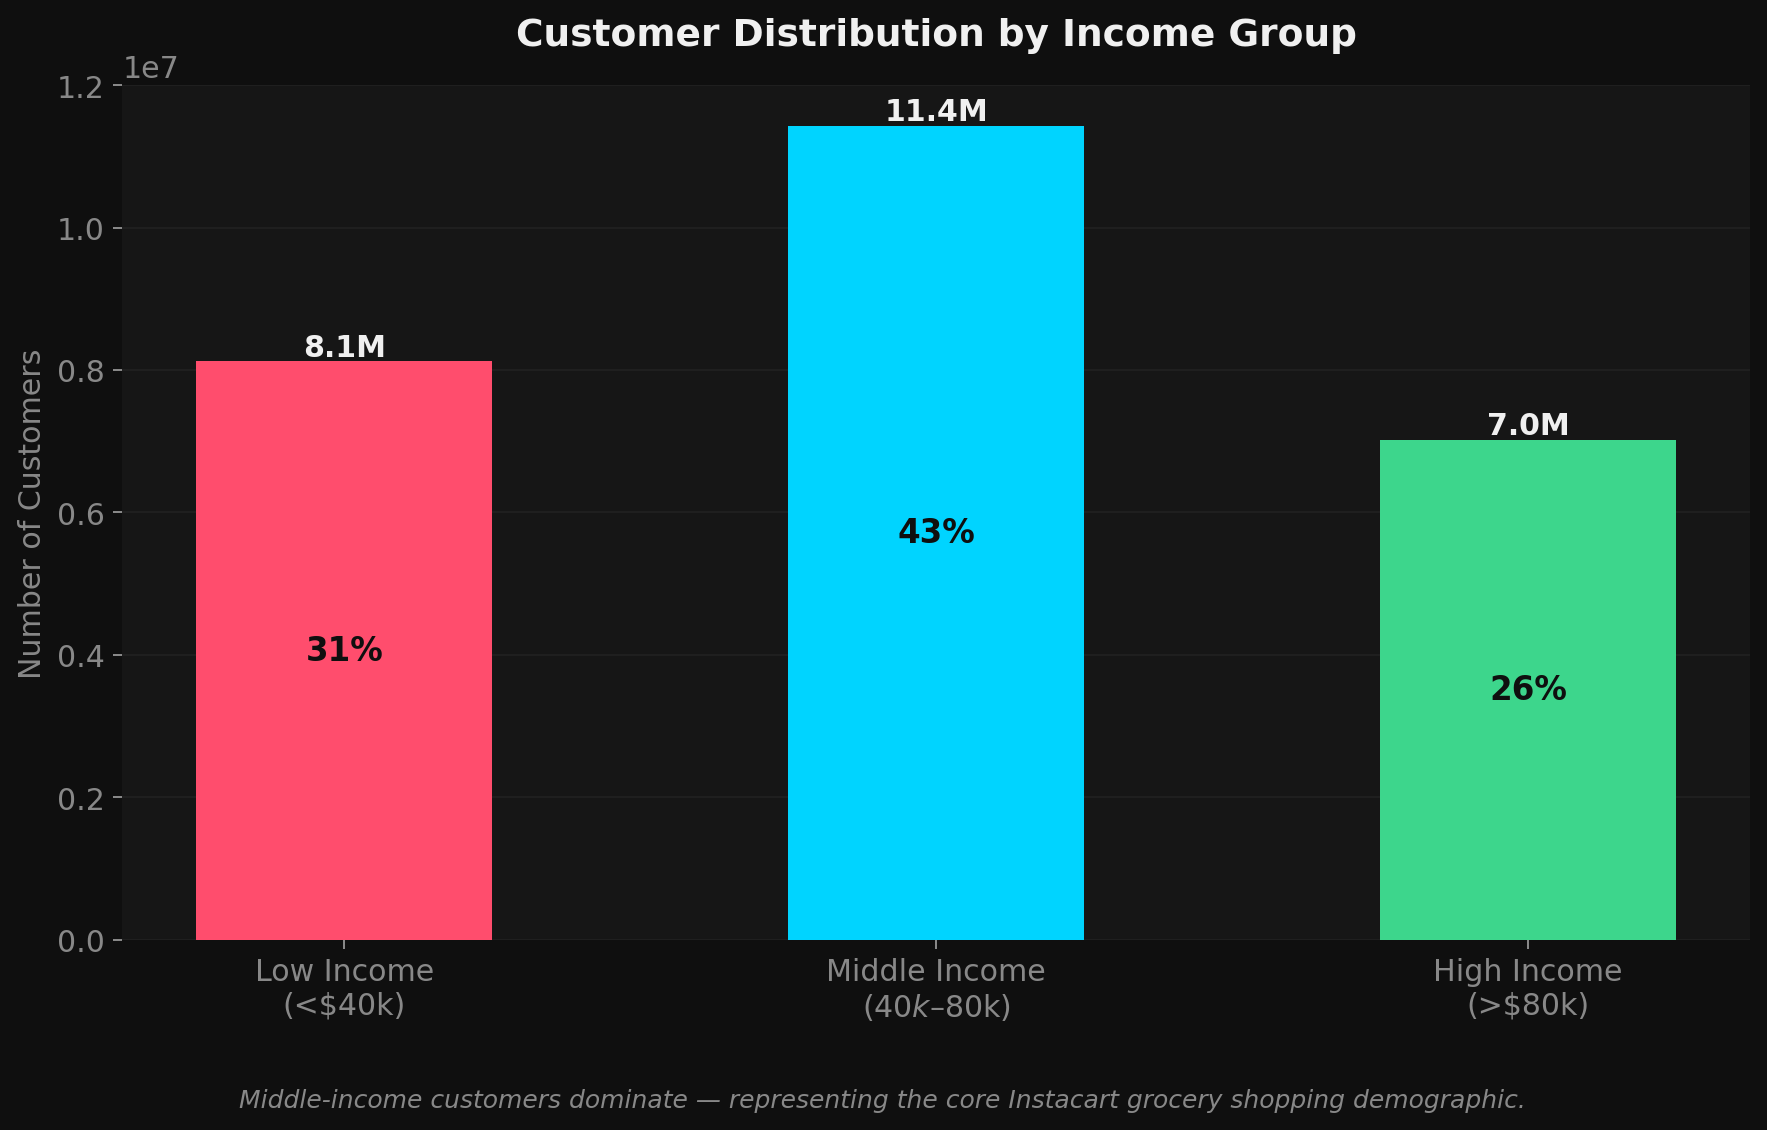
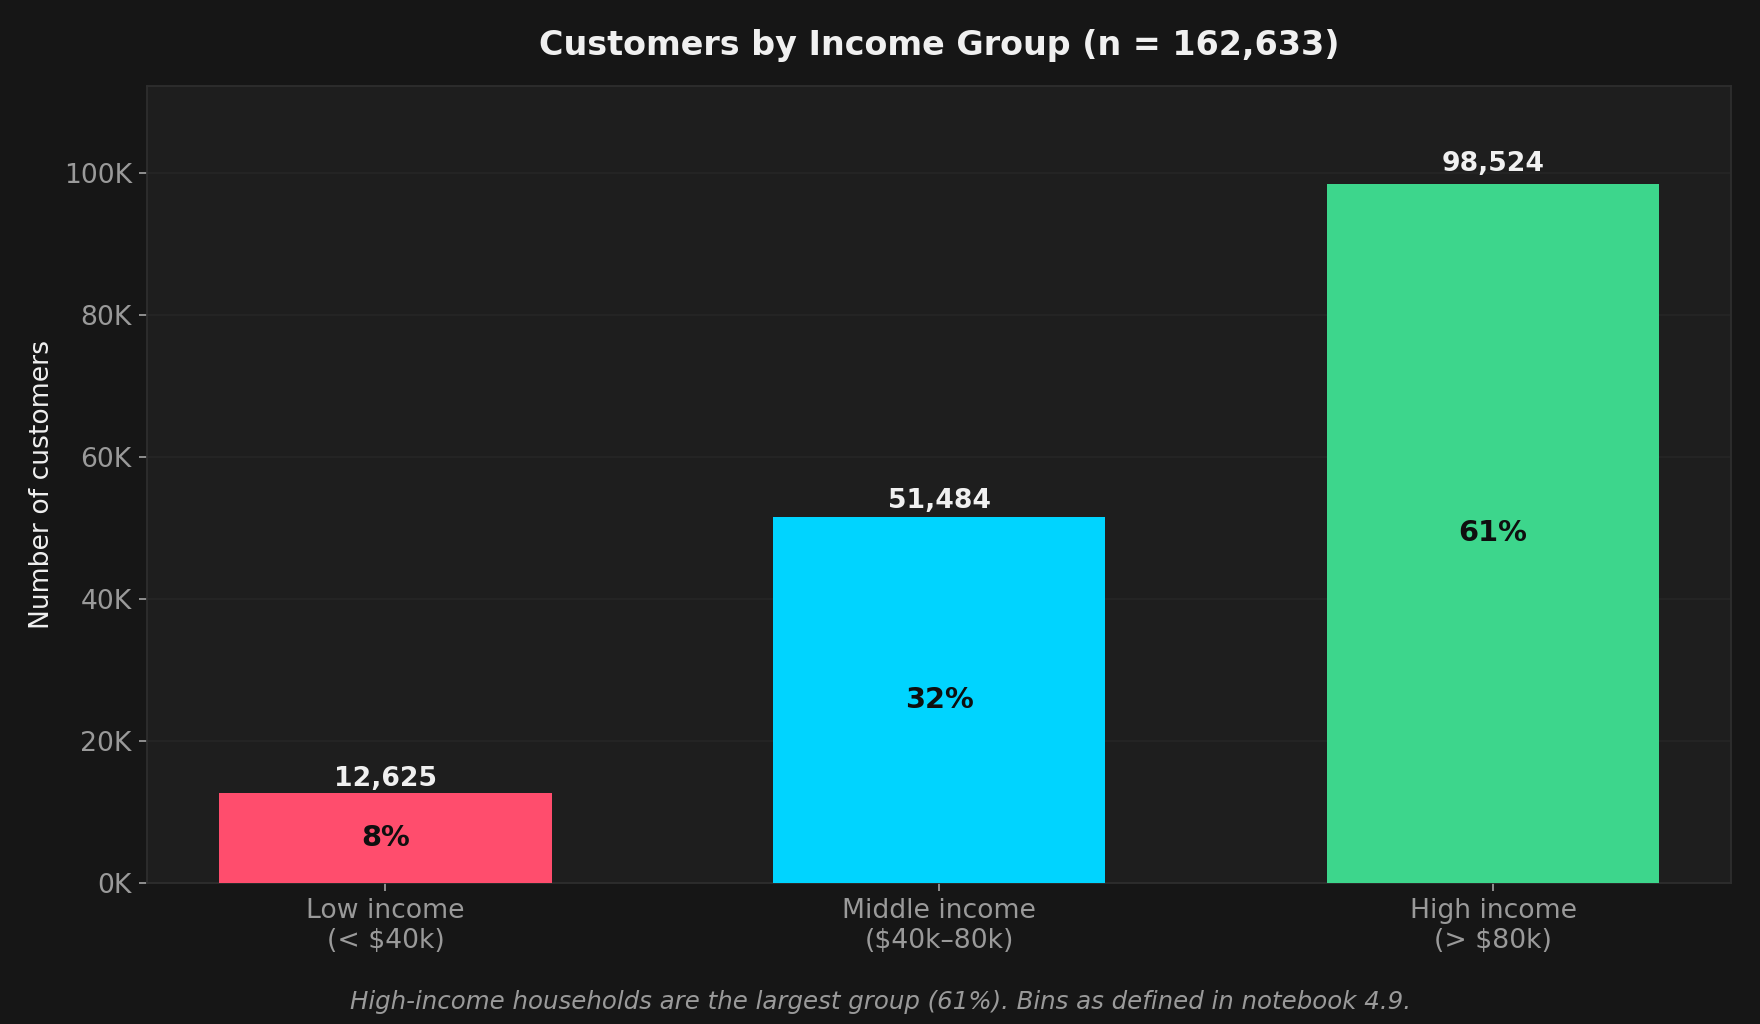
Instacart case study: charts and figures corrected to notebook outputs

diff --git a/instacart-case-study-de.html b/instacart-case-study-de.html
@@ -267,7 +267,7 @@
     <tbody>
       <tr><td><span class="step-tag">1. Import</span></td><td>4.2</td><td>orders.csv + products.csv importieren, profilen und vorschauen</td></tr>
       <tr><td><span class="step-tag">2. Wrangling</span></td><td>4.3</td><td>Spalten umbenennen, Teilmengen erstellen, bereinigte Daten exportieren</td></tr>
-      <tr><td><span class="step-tag">3. Konsistenz</span></td><td>4.4</td><td>Gemischte Typen korrigieren, 260K fehlende Werte behandeln</td></tr>
+      <tr><td><span class="step-tag">3. Konsistenz</span></td><td>4.4</td><td>Gemischte Typen korrigieren, 206.209 fehlende Werte behandeln</td></tr>
       <tr><td><span class="step-tag">4. Merging</span></td><td>4.5</td><td>orders + order_products + products zu einem DataFrame verbinden</td></tr>
       <tr><td><span class="step-tag">5. Abgeleitete Vars</span></td><td>4.6</td><td>price_label, busiest_day, busiest_period_of_day erstellen</td></tr>
       <tr><td><span class="step-tag">6. Gruppierung</span></td><td>4.7</td><td>Loyalitäts-Flag, Ausgaben-Flag, Bestellhäufigkeits-Flag</td></tr>
@@ -280,7 +280,7 @@
   <h2>Datenqualität</h2>
   <div class="insight-box blue">
     <p class="insight-title">Erkenntnis — Fehlende Werte</p>
-    <p>260.290 fehlende Werte in days_since_prior_order sind <strong>erwartet</strong>, nicht fehlerhaft — sie entsprechen ersten Bestellungen ohne vorherige Bestellung. Das Auffüllen mit 0 erhält die semantische Bedeutung.</p>
+    <p>206.209 fehlende Werte in days_since_prior_order sind <strong>erwartet</strong>, nicht fehlerhaft. Die Zahl entspricht exakt der Kundenanzahl (206.209), also ist jeder fehlende Wert die erste Bestellung eines Kunden. Das Auffüllen mit 0 erhält die Bedeutung.</p>
   </div>
 
   <h2>Bestellzeit-Analyse</h2>
@@ -302,17 +302,17 @@
   <h2>Loyalitätssegmentierung</h2>
   <figure class="case-figure">
     <img src="instacart-loyalty.png" alt="Loyalitätsverteilung"/>
-    <figcaption>Abbildung 4. Drei-Stufen-Loyalität (Neu, Regulär, Loyal). Reguläre Kunden sind die größte Gruppe — höchster Hebel für Retention.</figcaption>
+    <figcaption>Abbildung 4. Drei-Stufen-Loyalität nach mittlerer Bestellnummer je Kunde (Neu ≤ 10, Regulär 10–20, Loyal &gt; 20). Neukunden stellen die meisten Bestellzeilen (12,1 Mio., 37 %), Loyal 10,9 Mio. (34 %), Regulär 9,4 Mio. (29 %). Der Median-Artikelpreis liegt in allen drei Gruppen bei 7,4.</figcaption>
   </figure>
 
   <h2>Demografie</h2>
   <figure class="case-figure">
     <img src="instacart-age-group.png" alt="Altersgruppen-Verteilung"/>
-    <figcaption>Abbildung 5. Erwachsene (30–49) dominieren — das Familiensegment ist die Kernzielgruppe der Plattform.</figcaption>
+    <figcaption>Abbildung 5. Erwachsene (30–49) sind die größte Gruppe (50.981 Kunden, 31 %), Senioren (65+) die zweitgrößte (43.250, 27 %). Gezählt werden Kunden mit 5+ Bestellungen.</figcaption>
   </figure>
   <figure class="case-figure">
     <img src="instacart-income-group.png" alt="Einkommensverteilung"/>
-    <figcaption>Abbildung 6. Mittelschicht-Haushalte (40k–80k) sind das größte Einkommenssegment, konsistent mit dem Lebensmittel-Use-Case.</figcaption>
+    <figcaption>Abbildung 6. Haushalte mit hohem Einkommen (&gt; 80.000 $) sind mit Abstand die größte Gruppe: 98.524 Kunden (61 %), gegenüber 51.484 mit mittlerem und 12.625 mit niedrigem Einkommen.</figcaption>
   </figure>
   <figure class="case-figure">
     <img src="instacart-age-income.png" alt="Alter vs. Einkommen Streudiagramm"/>
@@ -336,11 +336,11 @@
 
   <figure class="case-figure">
     <img src="instacart-order-frequency.png" alt="Verteilung der Bestellhäufigkeit"/>
-    <figcaption>Abbildung 8. Hochfrequenz-Kunden (20+ Bestellungen) sind die größte Gruppe — wiederkehrende Käufer treiben den Umsatz.</figcaption>
+    <figcaption>Abbildung 8. Nach Kundenanzahl sind die drei Häufigkeitsstufen ähnlich groß (60.937 / 50.965 / 50.731). Nach Volumen nicht: Hochfrequenz-Kunden sind 31 % der Kunden, aber 64 % aller Bestellzeilen (19,9 von 31,0 Mio.).</figcaption>
   </figure>
   <figure class="case-figure">
     <img src="instacart-profile-heatmap.png" alt="Kundenprofil-Heatmap"/>
-    <figcaption>Abbildung 9. Kundenanzahl nach Altersgruppe × Bestellhäufigkeit. Erwachsene und Mittelalter-Hochfrequenz-Kunden sind die wertvollsten Segmente.</figcaption>
+    <figcaption>Abbildung 9. Die fünf häufigsten kombinierten Profile. Alle fünf sind Hochfrequenz-Haushalte mit kleiner Familie; Einkommen und Lebensphase variieren. Verhalten, nicht Demografie, definiert die Spitze der Kundenbasis.</figcaption>
   </figure>
 
   <div class="insight-box pink">
@@ -358,20 +358,20 @@
     <p>Zeitabhängige Preisanreize ändern das Ausgabeverhalten kaum. Aktionen sollten Segmente, nicht Stunden, ansprechen.</p>
   </div>
   <div class="finding yellow">
-    <p class="finding-title">Ergebnis 3 — Reguläre Kunden generieren das größte Bestellvolumen.</p>
-    <p>Eine Loyalitäts-Konversionsstrategie — Regulär zu Loyal — bietet das höchste Umsatzpotenzial.</p>
+    <p class="finding-title">Ergebnis 3 — Neukunden stellen weiterhin die meisten Bestellzeilen (37 %).</p>
+    <p>Der Artikelpreis ist über alle Loyalitätsstufen gleich (Median 7,4). Der Hebel ist also die Bestellhäufigkeit (Neu zu Regulär, Regulär zu Loyal), nicht der Warenkorbwert.</p>
   </div>
   <div class="finding pink">
-    <p class="finding-title">Ergebnis 4 — Erwachsene (30–49) sind das dominante Segment.</p>
-    <p>Marketing sollte auf Familienphase-Kaufverhalten optimieren: Haushaltsbedarf, Frischeprodukte, Essensplanung.</p>
+    <p class="finding-title">Ergebnis 4 — Erwachsene (30–49) sind die größte Altersgruppe, Senioren die zweitgrößte.</p>
+    <p>Senioren sind 27 % der aktiven Kunden und führen das häufigste Hochfrequenz-Profil an. Kampagnen, die von einer jungen Familienzielgruppe ausgehen, würden über ein Viertel der aktiven Kunden verfehlen.</p>
   </div>
   <div class="finding green">
-    <p class="finding-title">Ergebnis 5 — Mittelschicht-Kunden sind die Kernzielgruppe.</p>
-    <p>Kernkatalog-Preise sollten für Mittelschicht-Haushalte zugänglich bleiben, Premium-Platzierungen gezielt für hohe Einkommen.</p>
+    <p class="finding-title">Ergebnis 5 — Haushalte mit hohem Einkommen sind die Kernzielgruppe (61 %).</p>
+    <p>Das Einkommen ist für den Großteil der Basis nicht die Grenze. Premium-Platzierungen haben eine große Zielgruppe, preisgetriebene Aktionen eine kleine (8 % niedriges Einkommen).</p>
   </div>
   <div class="finding blue">
-    <p class="finding-title">Ergebnis 6 — Hochfrequenz-Kunden sind die größte Einzelgruppe.</p>
-    <p>Retention-Strategien (Abos, Treueprämien) haben eine größere adressierbare Basis als Akquise — höherer ROI.</p>
+    <p class="finding-title">Ergebnis 6 — Hochfrequenz-Kunden erzeugen 64 % der Bestellzeilen.</p>
+    <p>Ein Drittel der Kunden erzeugt zwei Drittel des Volumens. Die mittlere Stufe (10–19 Bestellungen, 50.965 Kunden) eine Stufe nach oben zu bewegen, ist der Retention-Test mit dem größten Hebel.</p>
   </div>
 
   <h2>Materialien</h2>

diff --git a/instacart-case-study.html b/instacart-case-study.html
@@ -267,7 +267,7 @@
     <tbody>
       <tr><td><span class="step-tag">1. Import</span></td><td>4.2</td><td>Import orders.csv + products.csv, profile and preview</td></tr>
       <tr><td><span class="step-tag">2. Wrangling</span></td><td>4.3</td><td>Rename columns, create subsets, export cleaned data</td></tr>
-      <tr><td><span class="step-tag">3. Consistency</span></td><td>4.4</td><td>Fix mixed types, handle 260K missing values</td></tr>
+      <tr><td><span class="step-tag">3. Consistency</span></td><td>4.4</td><td>Fix mixed types, handle 206,209 missing values</td></tr>
       <tr><td><span class="step-tag">4. Merging</span></td><td>4.5</td><td>Merge orders + order_products + products into one dataframe</td></tr>
       <tr><td><span class="step-tag">5. Derived Vars</span></td><td>4.6</td><td>Create price_label, busiest_day, busiest_period_of_day</td></tr>
       <tr><td><span class="step-tag">6. Grouping</span></td><td>4.7</td><td>Loyalty flag, spending flag, order frequency flag</td></tr>
@@ -280,7 +280,7 @@
   <h2>Data Quality</h2>
   <div class="insight-box blue">
     <p class="insight-title">Key Insight — Missing Values</p>
-    <p>260,290 missing values in days_since_prior_order are <strong>expected</strong>, not corrupt — they correspond to first-ever orders where no prior order exists. Filling with 0 preserves the semantic meaning.</p>
+    <p>206,209 missing values in days_since_prior_order are <strong>expected</strong>, not corrupt. The count equals the number of customers exactly (206,209), so each null is a customer's first order. Filling with 0 preserves the meaning.</p>
   </div>
 
   <h2>Order Timing Analysis</h2>
@@ -302,17 +302,17 @@
   <h2>Loyalty Segmentation</h2>
   <figure class="case-figure">
     <img src="instacart-loyalty.png" alt="Loyalty distribution"/>
-    <figcaption>Figure 4. Three-tier loyalty (New, Regular, Loyal) based on order count. Regular customers are the largest cohort — making them the highest-leverage retention target.</figcaption>
+    <figcaption>Figure 4. Three-tier loyalty based on each customer's mean order number (New ≤ 10, Regular 10–20, Loyal &gt; 20). New customers account for the most order lines (12.1M, 37%), Loyal 10.9M (34%), Regular 9.4M (29%). Median item price is 7.4 in all three groups, so loyalty does not change what people pay per item.</figcaption>
   </figure>
 
   <h2>Demographics</h2>
   <figure class="case-figure">
     <img src="instacart-age-group.png" alt="Age group distribution"/>
-    <figcaption>Figure 5. Adults (30–49) dominate the customer base — the family-stage segment is the platform's core demographic.</figcaption>
+    <figcaption>Figure 5. Adults (30–49) are the largest group (50,981 customers, 31%), seniors (65+) the second largest (43,250, 27%). Counts are customers with 5+ orders.</figcaption>
   </figure>
   <figure class="case-figure">
     <img src="instacart-income-group.png" alt="Income distribution"/>
-    <figcaption>Figure 6. Middle-income households (40k–80k) are the largest single income segment, consistent with the grocery-shopping use case.</figcaption>
+    <figcaption>Figure 6. High-income households (&gt; $80k) are the largest income group by far: 98,524 customers (61%), against 51,484 middle income and 12,625 low income.</figcaption>
   </figure>
   <figure class="case-figure">
     <img src="instacart-age-income.png" alt="Age vs income scatter"/>
@@ -336,11 +336,11 @@
 
   <figure class="case-figure">
     <img src="instacart-order-frequency.png" alt="Order frequency distribution"/>
-    <figcaption>Figure 8. High-frequency customers (20+ orders) are the largest group — repeat buyers drive Instacart revenue.</figcaption>
+    <figcaption>Figure 8. By customer count the three frequency tiers are similar (60,937 / 50,965 / 50,731). By volume they are not: high-frequency customers are 31% of customers but 64% of all order lines (19.9M of 31.0M).</figcaption>
   </figure>
   <figure class="case-figure">
     <img src="instacart-profile-heatmap.png" alt="Customer profile heatmap"/>
-    <figcaption>Figure 9. Customer count by age group × order frequency. Adults and Middle-Aged high-frequency customers are the highest-value segments.</figcaption>
+    <figcaption>Figure 9. The five most common combined profiles. All five are high-frequency, small-family households; income and life stage vary. Behaviour, not demographics, defines the top of the base.</figcaption>
   </figure>
 
   <div class="insight-box pink">
@@ -358,20 +358,20 @@
     <p>Time-based pricing incentives are unlikely to change spending behavior. Promotions should target segments, not hours.</p>
   </div>
   <div class="finding yellow">
-    <p class="finding-title">Finding 3 — Regular customers generate the most order volume.</p>
-    <p>A loyalty conversion strategy — moving Regular to Loyal — offers the highest revenue upside, as Loyal customers have higher per-order value.</p>
+    <p class="finding-title">Finding 3 — New customers still account for the most order lines (37%).</p>
+    <p>Per-item spend is the same across loyalty tiers (median 7.4), so the lever is converting New to Regular and Regular to Loyal on frequency, not on basket price.</p>
   </div>
   <div class="finding pink">
-    <p class="finding-title">Finding 4 — Adults (30–49) are the dominant segment.</p>
-    <p>Marketing campaigns should optimize for family-stage purchasing behavior: household staples, fresh produce, and meal planning.</p>
+    <p class="finding-title">Finding 4 — Adults (30–49) are the largest age group, seniors are second.</p>
+    <p>Seniors are 27% of active customers and lead the single most common high-frequency profile. Campaigns that assume a young, family-stage base would miss more than a quarter of the active customers.</p>
   </div>
   <div class="finding green">
-    <p class="finding-title">Finding 5 — Middle-income customers are the core demographic.</p>
-    <p>Core catalog pricing should remain accessible to Middle income households, while premium placement targets High income segments specifically.</p>
+    <p class="finding-title">Finding 5 — High-income households are the core demographic (61%).</p>
+    <p>Income is not the constraint for most of the base. Premium placement has a large addressable audience; price-led promotions have a small one (8% low income).</p>
   </div>
   <div class="finding blue">
-    <p class="finding-title">Finding 6 — High-frequency customers are the largest single group.</p>
-    <p>Retention strategies (subscriptions, loyalty rewards) have a larger addressable base than acquisition campaigns — making them higher ROI.</p>
+    <p class="finding-title">Finding 6 — High-frequency customers drive 64% of order lines.</p>
+    <p>A third of the customers generate two thirds of the volume. Moving the medium tier (10–19 orders, 50,965 customers) up one band is the highest-leverage retention test.</p>
   </div>
 
   <h2>Resources</h2>

diff --git a/projects-de.html b/projects-de.html
@@ -134,7 +134,7 @@
 </div>
 <div class="projects-list">
   <a href="textmining-case-study-de.html" class="proj-item"><div class="proj-item-type">NLP · Fortgeschritten</div><div class="proj-item-title">Textmining & NLP im 20. Jahrhundert</div><div class="proj-item-tools">Selenium · spaCy · NLTK · NetworkX</div></a>
-  <a href="instacart-case-study-de.html" class="proj-item"><div class="proj-item-type">Verhaltens-Segmentierung</div><div class="proj-item-title">Instacart Warenkorb-Analyse</div><div class="proj-item-tools">Pandas · NumPy · Matplotlib · PostgreSQL</div></a>
+  <a href="instacart-case-study-de.html" class="proj-item"><div class="proj-item-type">Verhaltens-Segmentierung</div><div class="proj-item-title">Instacart Warenkorb-Analyse</div><div class="proj-item-tools">Pandas · NumPy · Matplotlib · Jupyter</div></a>
   <a href="citi-bike-case-study-de.html" class="proj-item"><div class="proj-item-type">Geodaten · Dashboard</div><div class="proj-item-title">NYC Citi Bike Dashboard (2022)</div><div class="proj-item-tools">Pandas · Plotly · Streamlit · Kepler.gl</div></a>
   <a href="rockbuster-case-study-de.html" class="proj-item"><div class="proj-item-type">Umsatzanalyse</div><div class="proj-item-title">Rockbuster Strategieanalyse</div><div class="proj-item-tools">PostgreSQL · Tableau · CTEs</div></a>
   <a href="influenza-case-study-de.html" class="proj-item"><div class="proj-item-type">Public Health · Räumliche Analyse</div><div class="proj-item-title">US-Influenza-Sterblichkeitsanalyse</div><div class="proj-item-tools">Excel · Tableau · Python · INDEX/VERGLEICH</div></a>

diff --git a/projects.html b/projects.html
@@ -134,7 +134,7 @@
 </div>
 <div class="projects-list">
   <a href="textmining-case-study.html" class="proj-item"><div class="proj-item-type">NLP · Advanced</div><div class="proj-item-title">20th Century Text Mining & NLP</div><div class="proj-item-tools">Selenium · spaCy · NLTK · NetworkX</div></a>
-  <a href="instacart-case-study.html" class="proj-item"><div class="proj-item-type">Behavioral Segmentation</div><div class="proj-item-title">Instacart Market Basket Analysis</div><div class="proj-item-tools">Pandas · NumPy · Matplotlib · PostgreSQL</div></a>
+  <a href="instacart-case-study.html" class="proj-item"><div class="proj-item-type">Behavioral Segmentation</div><div class="proj-item-title">Instacart Market Basket Analysis</div><div class="proj-item-tools">Pandas · NumPy · Matplotlib · Jupyter</div></a>
   <a href="citi-bike-case-study.html" class="proj-item"><div class="proj-item-type">Geospatial · Dashboard</div><div class="proj-item-title">NYC Citi Bike Dashboard (2022)</div><div class="proj-item-tools">Pandas · Plotly · Streamlit · Kepler.gl</div></a>
   <a href="rockbuster-case-study.html" class="proj-item"><div class="proj-item-type">Revenue Analysis</div><div class="proj-item-title">Rockbuster Strategy Analysis</div><div class="proj-item-tools">PostgreSQL · Tableau · CTEs</div></a>
   <a href="influenza-case-study.html" class="proj-item"><div class="proj-item-type">Public Health · Spatial Analysis</div><div class="proj-item-title">U.S. Influenza Mortality Analysis</div><div class="proj-item-tools">Excel · Tableau · Python · INDEX/MATCH</div></a>

diff --git a/index.html b/index.html
@@ -232,8 +232,8 @@
         <div class="project-body">
           <div class="project-meta"><span class="project-type">Behavioral Segmentation</span><span class="project-badge">Python</span></div>
           <h3 class="project-title">Instacart Market Basket Analysis</h3>
-          <p class="project-desc">High-frequency customers drive a disproportionate share of total orders. Segmentation using Python and PostgreSQL.</p>
-          <div class="project-tools"><span>Pandas · NumPy · Matplotlib · PostgreSQL</span><span class="project-link">View case study →</span></div>
+          <p class="project-desc">High-frequency customers are 31% of customers but 64% of order lines. Behavioural segmentation of 32M order lines in Python.</p>
+          <div class="project-tools"><span>Pandas · NumPy · Matplotlib · Jupyter</span><span class="project-link">View case study →</span></div>
         </div>
       </a>
       <a href="citi-bike-case-study.html" class="project-card" data-tags="python tableau">

diff --git a/index-de.html b/index-de.html
@@ -232,8 +232,8 @@
         <div class="project-body">
           <div class="project-meta"><span class="project-type">Verhaltens-Segmentierung</span><span class="project-badge">Python</span></div>
           <h3 class="project-title">Instacart Warenkorb-Analyse</h3>
-          <p class="project-desc">Hochfrequente Kunden generieren einen überproportionalen Anteil der Bestellungen.</p>
-          <div class="project-tools"><span>Pandas · NumPy · Matplotlib · PostgreSQL</span><span class="project-link">Fallstudie →</span></div>
+          <p class="project-desc">Hochfrequente Kunden sind 31 % der Kunden, aber 64 % der Bestellzeilen. Verhaltens-Segmentierung von 32 Mio. Bestellzeilen in Python.</p>
+          <div class="project-tools"><span>Pandas · NumPy · Matplotlib · Jupyter</span><span class="project-link">Fallstudie →</span></div>
         </div>
       </a>
       <a href="citi-bike-case-study-de.html" class="project-card" data-tags="python tableau">
